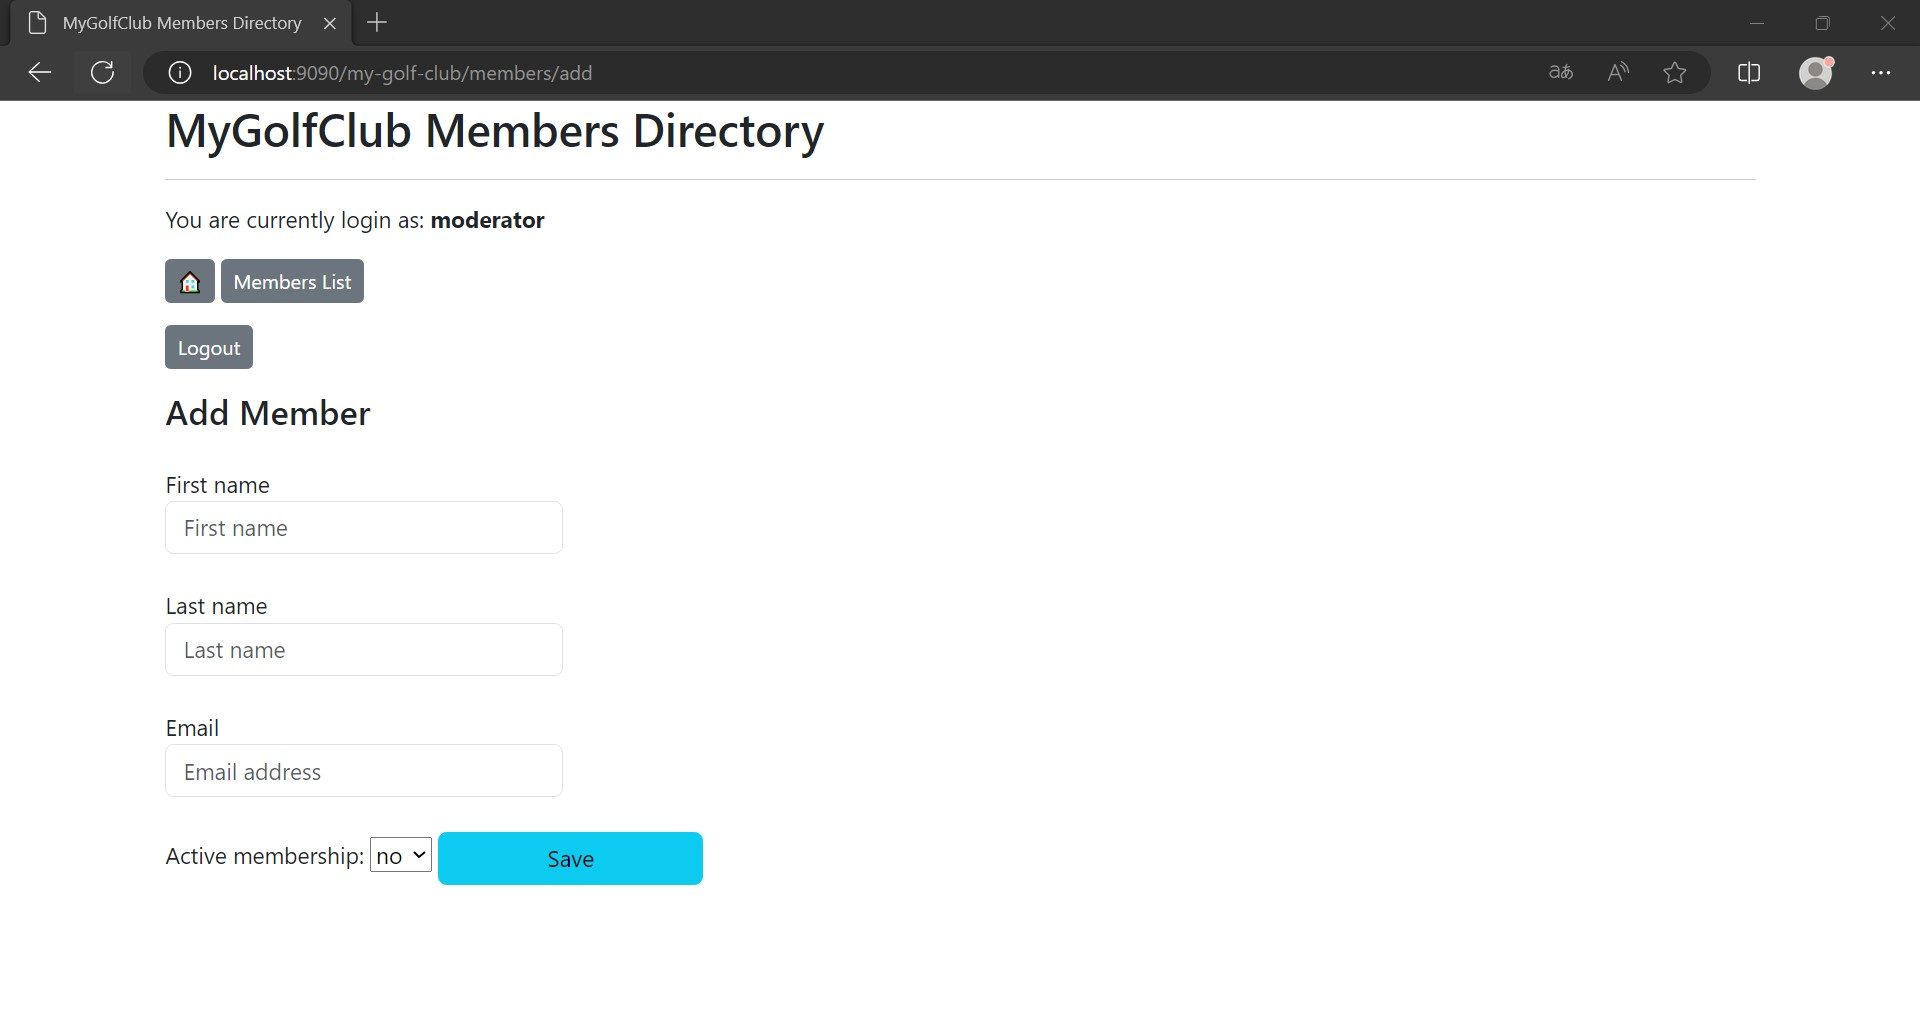
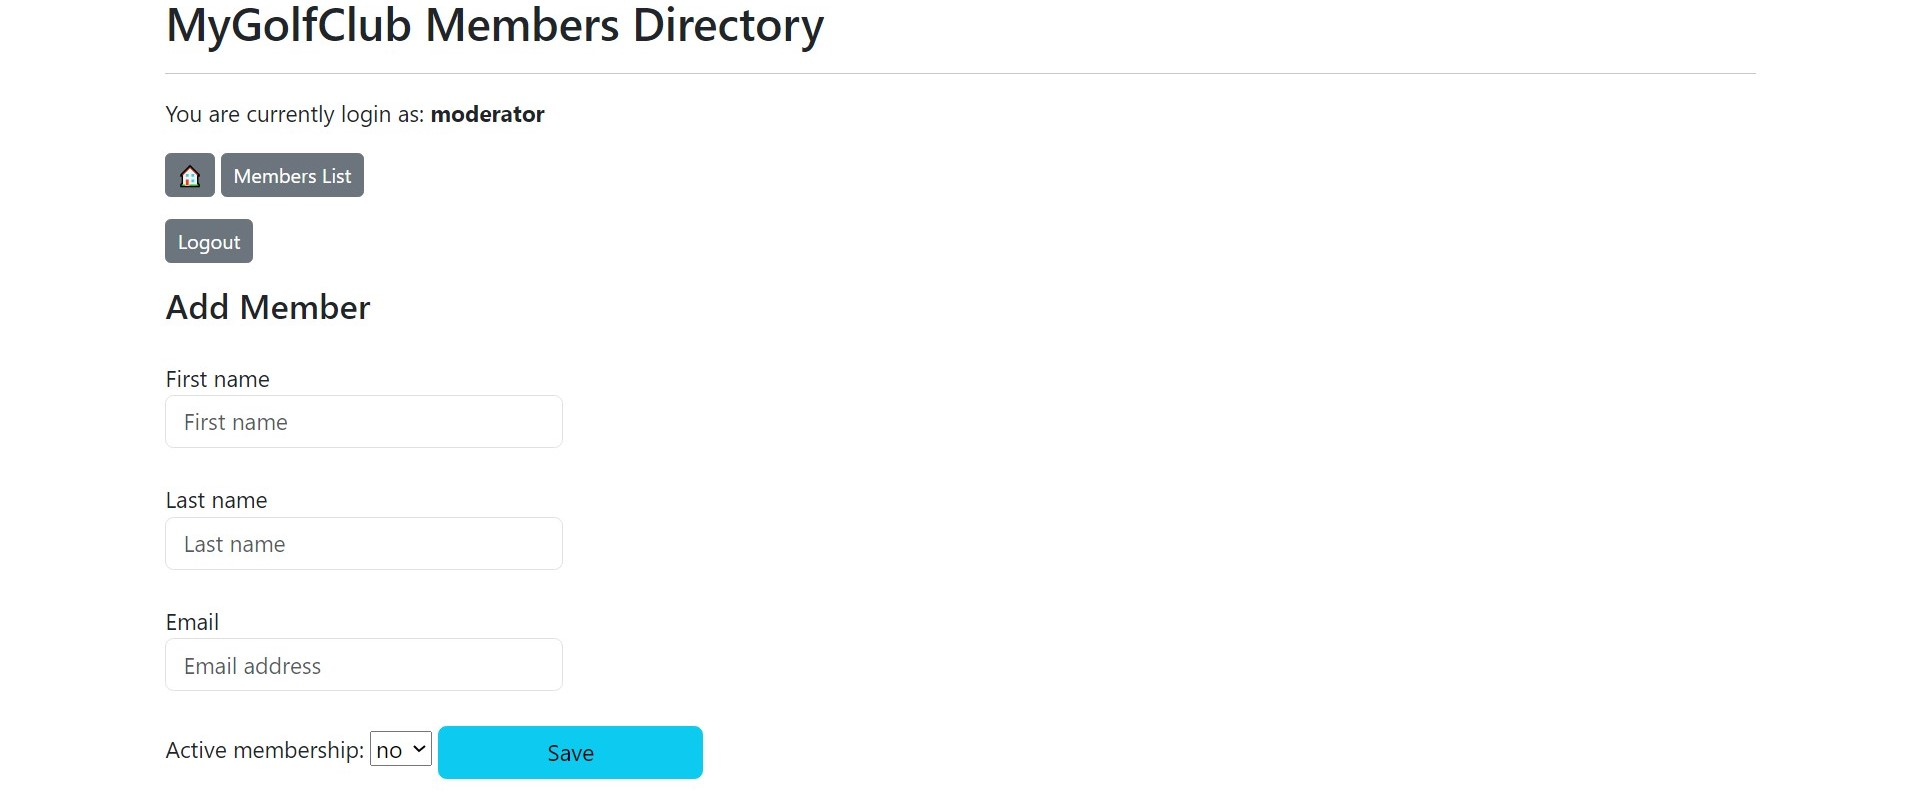
README and screenshot updates
Cropped images, some was removed. Updated todo list. Added links to headers. And other small README updates.

diff --git a/README.md b/README.md
@@ -1,12 +1,9 @@
 
-<div align="center">
-    <h1>THIS README FILE IS STILL UNDER THE DEVELOPMENT.</h1>
-    <code>TODO: Add a screenshot for a case where it is shown where to click to go to see an API documentation.</code> 
-    <br>
-    <code>TODO: Add screenshots for cases when user provide invalid data.</code>
-    <br>
-    <code>TODO: Add a screenshot for a case when user tries to visit not existing page.</code>
-</div>
+# THIS README FILE IS STILL UNDER THE DEVELOPMENT. 
+
+**[SEE TODO LIST](#todo-list)**
+
+<hr>
 
 # MyGolfClub
 
@@ -27,11 +24,12 @@ Read further for more details.
 
 ## Table Of Content
 
-- Features
-- Project Details
-- Run Project From Source
-- Screenshots
-- API Reference
+- [Features](#features)
+- [Project Details](#project-details)
+- [TODO List](#todo-list)
+- [Run Project From Source](#run-project-from-source)
+- [Screenshots](#screenshots)
+- [API Reference](#api-reference)
 
 ## Features
 
@@ -41,6 +39,10 @@ Read further for more details.
 - RESTful API for extensibility
 - CRUD operations support
 - Included SQL scripts for creation of user, database, tables and records
+
+<div align="right">
+    <a href="#table-of-content">Go back to the Table Of Content</a>
+</div>
 
 ## Project Details
 
@@ -62,6 +64,50 @@ Read further for more details.
 |       Spring Boot Validation        |     3.1.5     | 
 |               Lombok                |    1.18.30    |
 | SpringDoc OpenAPI Starter WebMVC UI |     2.2.0     |  
+
+<div align="right">
+    <a href="#table-of-content">Go back to the Table Of Content</a>
+</div>
+
+## TODO List
+
+1. [ ] TODO: Add a screenshot for a case where it is shown where to click to go to see an API documentation.
+
+
+2. [ ] TODO: Add a screenshot for a case where member was successfully added.
+
+
+3. [ ] TODO: Add a screenshot for a case where member was successfully modified.
+
+
+4. [ ] TODO: Add a screenshot for a case where member was successfully removed.
+
+
+5. [ ] TODO: Add a screenshot for a case where user was successfully added.
+
+
+6. [ ] TODO: Add screenshots for cases when user provide invalid member data:
+
+    1. [ ] Moderator
+        1. [ ] First name invalid
+        2. [ ] Last name invalid
+        3. [ ] Email invalid
+    2. [ ] Admin
+        1. [ ] First name invalid
+        2. [ ] Last name invalid
+        3. [ ] Email invalid
+
+
+7. [ ] TODO: Add screenshots for cases when admin provide invalid user data:
+    1. [ ] Username invalid
+    2. [ ] Password invalid
+
+
+8. [ ] TODO: Add a screenshot for a case when user tries to visit not existing page.
+
+<div align="right">
+    <a href="#table-of-content">Go back to the Table Of Content</a>
+</div>
 
 ## Run Project From Source
 
@@ -148,6 +194,10 @@ where `$JDK_PATH` is an absolute path to a root folder of jdk 17 or 17+.
   gradle bootRun -D org.gradle.java.home='$JDK_PATH'
 ```
 
+<div align="right">
+    <a href="#table-of-content">Go back to the Table Of Content</a>
+</div>
+
 ## Screenshots
 
 Following cases have to be followed:
@@ -225,13 +275,13 @@ Following cases have to be followed:
 
 ### 1. Unauthenticated
 
-- **Login Page**
+- **Login Page** - `/login`
 
 ![Image contains login page.](./screenshots/No-Auth/login-page.jpg "Login page")
 
 <br>
 
-- **Login Page if you provide invalid credentials**
+- **Login Page if you provide invalid credentials** - `/login?error`
 
 ![Image contains login page after providing invalid credentials.](./screenshots/No-Auth/bad-credentials.jpg "Login page - invalid credentials")
 
@@ -239,137 +289,205 @@ Following cases have to be followed:
 
 ### 2. Employee Role
 
-- **Home Page**
+- **Home Page** - `/my-golf-club`
 
 ![Image contains home page when logged as employee.](./screenshots/Auth/ROLE_EMPLOYEE/%5BE%5Dhome-page.jpg "Home Page")
 
 <br>
 
-- **List Of Members**
+- **List Of Members** - `/my-golf-club/members/list`
 
 ![Image contains list of members page when logged as employee.](./screenshots/Auth/ROLE_EMPLOYEE/%5BE%5Dmembers-list.jpg "List Of Members")
 
 <br>
 
-- **List of Active Members**
+- **List of Active Members** - `/my-golf-club/members/list/active`
 
 ![Image contains list of active members page when logged as employee.](./screenshots/Auth/ROLE_EMPLOYEE/%5BE%5Dactive-members-list.jpg "List Of Active Members")
 
 <br>
 
-- **Add Member**
+- **Add Member** - `/my-golf-club/members/add`
 
-![Image contains add member page when logged as employee.](./screenshots/Auth/ROLE_EMPLOYEE/%5BE%5Dnot-authorized-when-add-member.jpg "Add Member")
-
-<br>
-
-- **Update Member**
-
-![Image contains update member page when logged as employee.](./screenshots/Auth/ANY/NOT-AUTHORIZED/not-authorized-when-update-member.jpg "Update Member")
+![Image contains add member page when logged as employee.](./screenshots/Auth/ANY/NOT-AUTHORIZED/not-authorized.jpg "Add Member")
 
 <br>
 
-- **Delete Member**
+- **Update Member** - `/my-golf-club/members/update?memberId=1`
 
-![Image contains delete member page when logged as employee.](./screenshots/Auth/ANY/NOT-AUTHORIZED/not-authorized-when-delete-member.jpg "Delete Member")
+![Image contains update member page when logged as employee.](./screenshots/Auth/ANY/NOT-AUTHORIZED/not-authorized.jpg "Update Member")
 
 <br>
 
-- **Add User**
+- **Delete Member** - `/my-golf-club/members/delete?memberId=1`
 
-![Image contains add user page when logged as employee.](./screenshots/Auth/ANY/NOT-AUTHORIZED/not-authorized-when-add-user.jpg "Add User")
+![Image contains delete member page when logged as employee.](./screenshots/Auth/ANY/NOT-AUTHORIZED/not-authorized.jpg "Delete Member")
+
+<br>
+
+- **Add User** - `/my-golf-club/users/add`
+
+![Image contains add user page when logged as employee.](./screenshots/Auth/ANY/NOT-AUTHORIZED/not-authorized.jpg "Add User")
 
 <br>
 
 ### 3. Moderator Role
 
-- **Home Page**
+- **Home Page** - `/my-golf-club`
 
 ![Image contains home page when logged as moderator.](./screenshots/Auth/ROLE_MODERATOR/%5BM%5Dhome-page.jpg "Home Page")
 
 <br>
 
-- **List Of Members**
+- **List Of Members** - `/my-golf-club/members/list`
 
 ![Image contains list of members page when logged as moderator.](./screenshots/Auth/ROLE_MODERATOR/%5BM%5Dmembers-list.jpg "List Of Members")
 
 <br>
 
-- **List Of Active Members**
+- **List Of Active Members** - `/my-golf-club/members/list/active`
 
 ![Image contains list of active members page when logged as employee.](./screenshots/Auth/ROLE_MODERATOR/%5BM%5Dactive-members-list.jpg "List Of Active Members")
 
 <br>
 
 - **Add Member**
-  - **Form**
+- **Form** - `/my-golf-club/members/add`
 
 ![Image contains add member page when logged as moderator.](./screenshots/Auth/ROLE_MODERATOR/ADD-MEMBER/%5BM%5Dadd-member.jpg "Add Member")
 
+- **Success**
+
+_// TODO: images here_
+
+- **Invalid Data Provided** - `/my-golf-club/members/save`
+- **First name invalid**
+
+_// TODO: images here_
+
+- **Last name invalid**
+
+_// TODO: images here_
+
+- **Email invalid**
+
+_// TODO: images here_
+
 <br>
 
-- **Update Member**
+- **Update Member** - `/my-golf-club/members/update?memberId=1`
 
-![Image contains update member page when logged as moderator.](./screenshots/Auth/ANY/NOT-AUTHORIZED/not-authorized-when-update-member.jpg  "Update Member")
-
-<br>
-
-- **Delete Member**
-
-![Image contains delete member page when logged as moderator.](./screenshots/Auth/ANY/NOT-AUTHORIZED/not-authorized-when-delete-member.jpg "Delete Member")
+![Image contains update member page when logged as moderator.](./screenshots/Auth/ANY/NOT-AUTHORIZED/not-authorized.jpg  "Update Member")
 
 <br>
 
-- **Add User**
+- **Delete Member** `/my-golf-club/members/delete?memberId=1`
 
-![Image contains add user page when logged as moderator.](./screenshots/Auth/ANY/NOT-AUTHORIZED/not-authorized-when-add-user.jpg "Add User")
+![Image contains delete member page when logged as moderator.](./screenshots/Auth/ANY/NOT-AUTHORIZED/not-authorized.jpg "Delete Member")
+
+<br>
+
+- **Add User** - `/my-golf-club/users/add`
+
+![Image contains add user page when logged as moderator.](./screenshots/Auth/ANY/NOT-AUTHORIZED/not-authorized.jpg "Add User")
 
 <br>
 
 ### 4. Admin Role
 
-- **Home Page**
+- **Home Page** - `/my-golf-club`
 
 ![Image contains home page when logged as admin.](./screenshots/Auth/ROLE_ADMIN/%5BA%5Dhome-page.jpg "Home Page")
 
 <br>
 
-- **List Of Members**
+- **List Of Members** - `/my-golf-club/members/list`
 
 ![Image contains list of members page when logged as admin.](./screenshots/Auth/ROLE_ADMIN/%5BA%5Dmembers-list.jpg "List Of Members")
 
 <br>
 
-- **List Of Active Members**
+- **List Of Active Members** - `/my-golf-club/members/list/active`
 
 ![Image contains list of active members page when logged as employee.](./screenshots/Auth/ROLE_ADMIN/%5BA%5Dactive-members-list.jpg "List Of Active Members")
 
 <br>
 
 - **Add Member**
-  - **Form**
+  - **Form** - `/my-golf-club/members/add`
 
 ![Image contains add member page when logged as admin.](./screenshots/Auth/ROLE_ADMIN/ADD-MEMBER/%5BA%5Dadd-member.jpg "Add Member")
+
+- **Success**
+
+_// TODO: images here_
+
+- **Invalid Data Provided** - `/my-golf-club/members/save`
+- **First name invalid**
+
+_// TODO: images here_
+
+- **Last name invalid**
+
+_// TODO: images here_
+
+- **Email invalid**
+
+_// TODO: images here_
 
 <br>
 
 - **Update Member**
-  - **Form**
+  - **Form** - `/my-golf-club/members/update?memberId=1`
 
 ![Image contains update member page when logged as admin.](./screenshots/Auth/ROLE_ADMIN/UPDATE-MEMBER/%5BA%5Dupdate-member.jpg "Update Member")
 
+- **Success**
+
+_// TODO: images here_
+
+- **Invalid Data Provided** - `/my-golf-club/members/save`
+- **First name invalid**
+
+_// TODO: images here_
+
+- **Last name invalid**
+
+_// TODO: images here_
+
+- **Email invalid**
+
+_// TODO: images here_
+
 <br>
 
-- **Delete Member**
+- **Delete Member** - `/my-golf-club/members/delete?memberId=1`
 
-![Image contains delete member page when logged as admin.](screenshots "Delete Member") /TODO
+![Image contains delete member page when logged as admin.](screenshots "Delete Member") // TODO
 
 <br>
 
 - **Add User**
-  - **Form**
+  - **Form** - `/my-golf-club/users/add`
 
 ![Image contains add user page when logged as admin.](./screenshots/Auth/ROLE_ADMIN/ADD-USER/%5BA%5Dadd-user.jpg "Add User")
+
+- **Success**
+
+_// TODO: images here_
+
+- **Invalid Data Provided** - `/my-golf-club/members/save`
+- **Username invalid**
+
+_// TODO: images here_
+
+- **Password invalid**
+
+_// TODO: images here_
+
+<div align="right">
+    <a href="#table-of-content">Go back to the Table Of Content</a>
+</div>
 
 ## API Reference
 
@@ -379,7 +497,7 @@ http://localhost:9090/swagger-ui/index.html
 You can also click on a proper button on the homepage, the page you are redirected to after successful authentication.
 
 ![Image contains clickable button displayed on homepage that redirects to API documentation.](screenshots "Button on homepage") 
-/TODO
+// TODO
 
 > Make sure you have 9090 port available, since configuration specifies to run on this server port.
 You could also change the configuration to your liking if necessary.
@@ -415,6 +533,10 @@ Default `HOST` = http://localhost:9090
 |                DELETE                 | Path variable (required) |
 |:-------------------------------------:|:------------------------:|
 | `HOST/my-golf-club/api/members/{int}` |       int {1, ..}        |
+
+<div align="right">
+    <a href="#table-of-content">Go back to the Table Of Content</a>
+</div>
 
 ## Author
 
